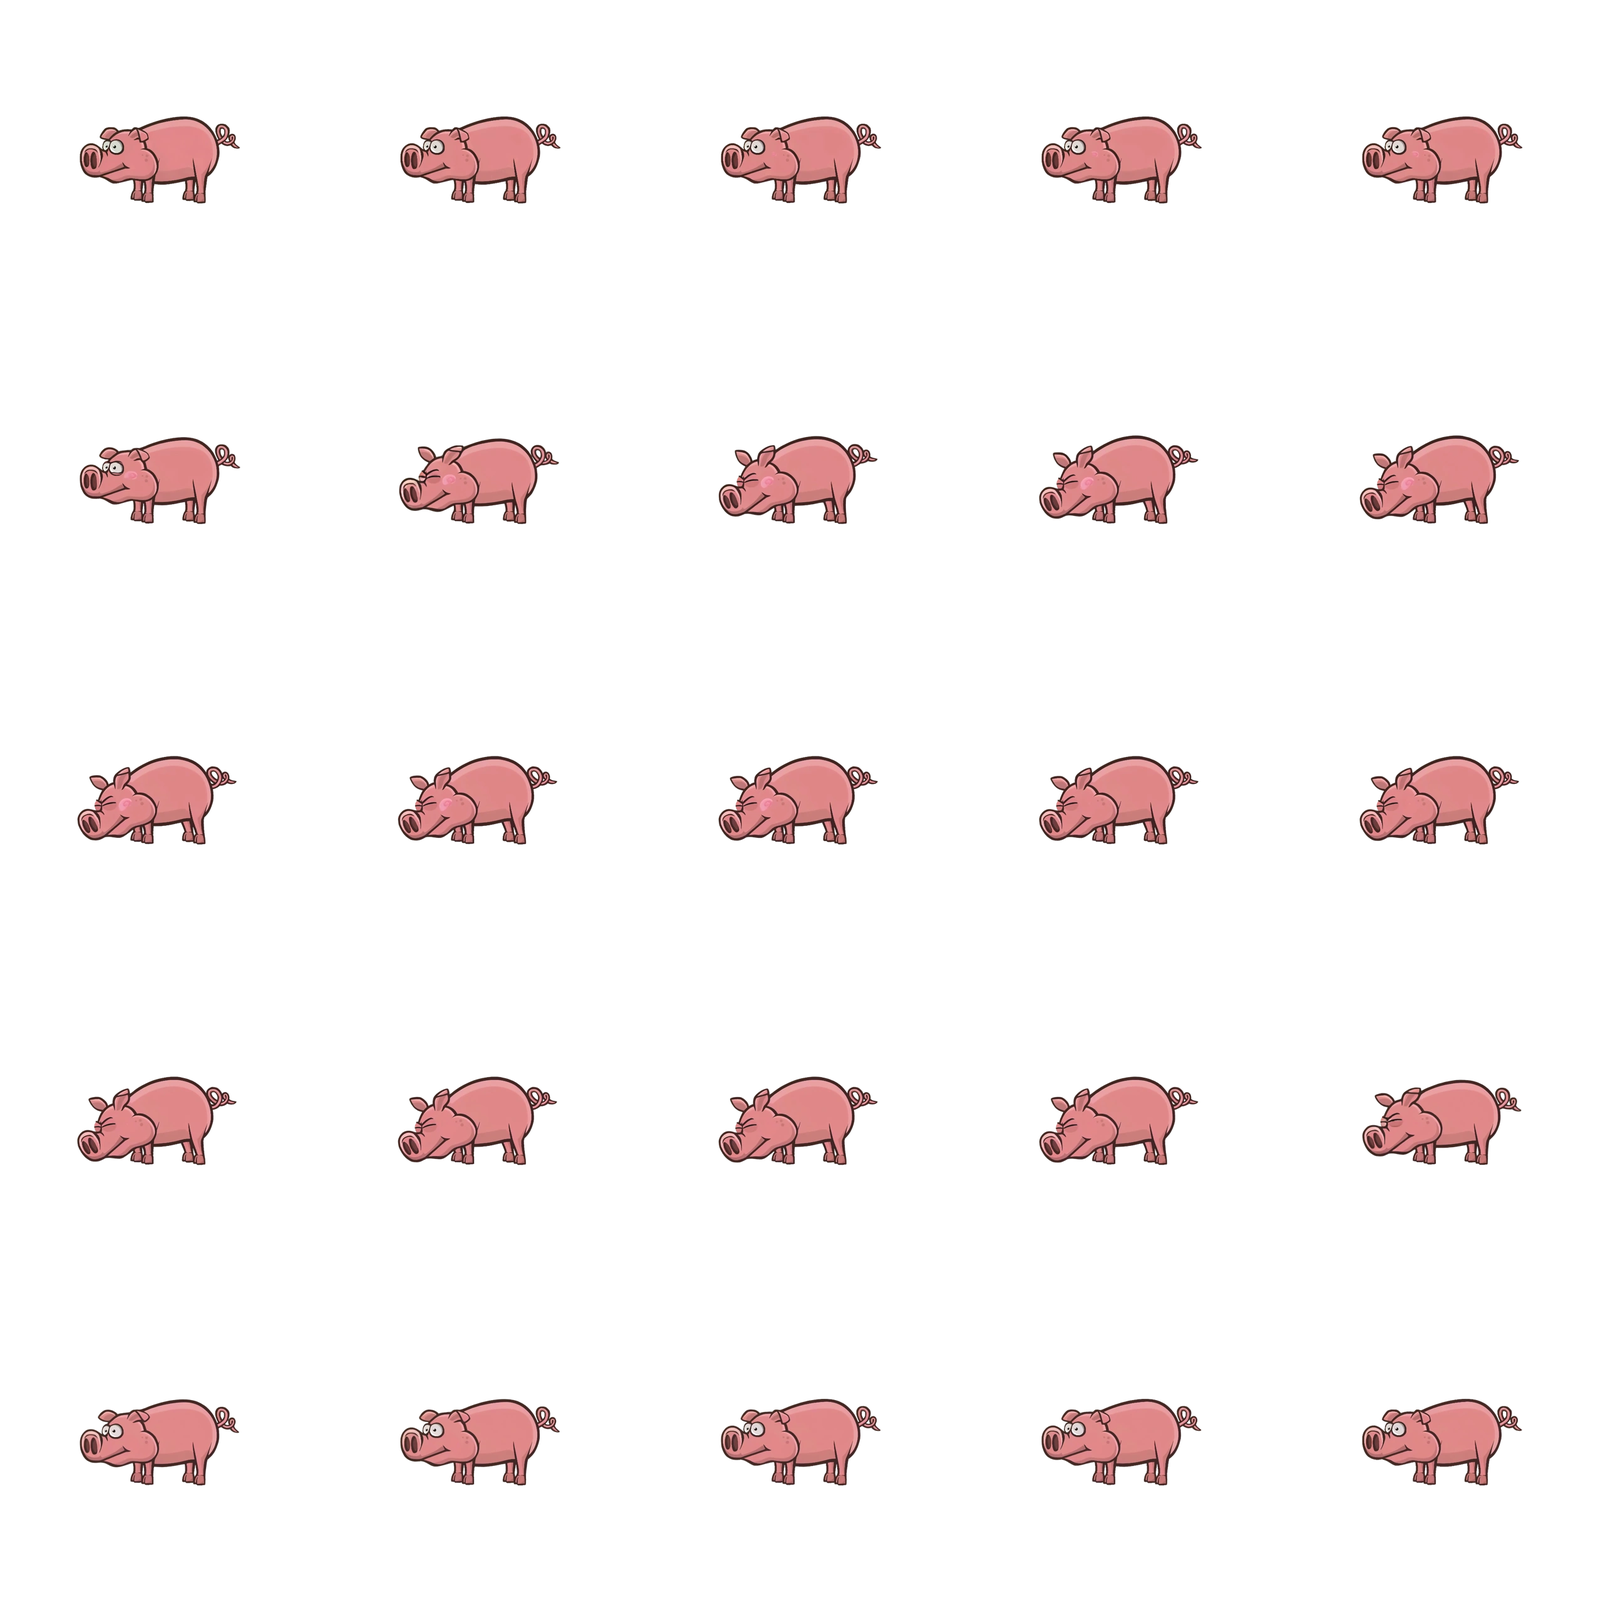
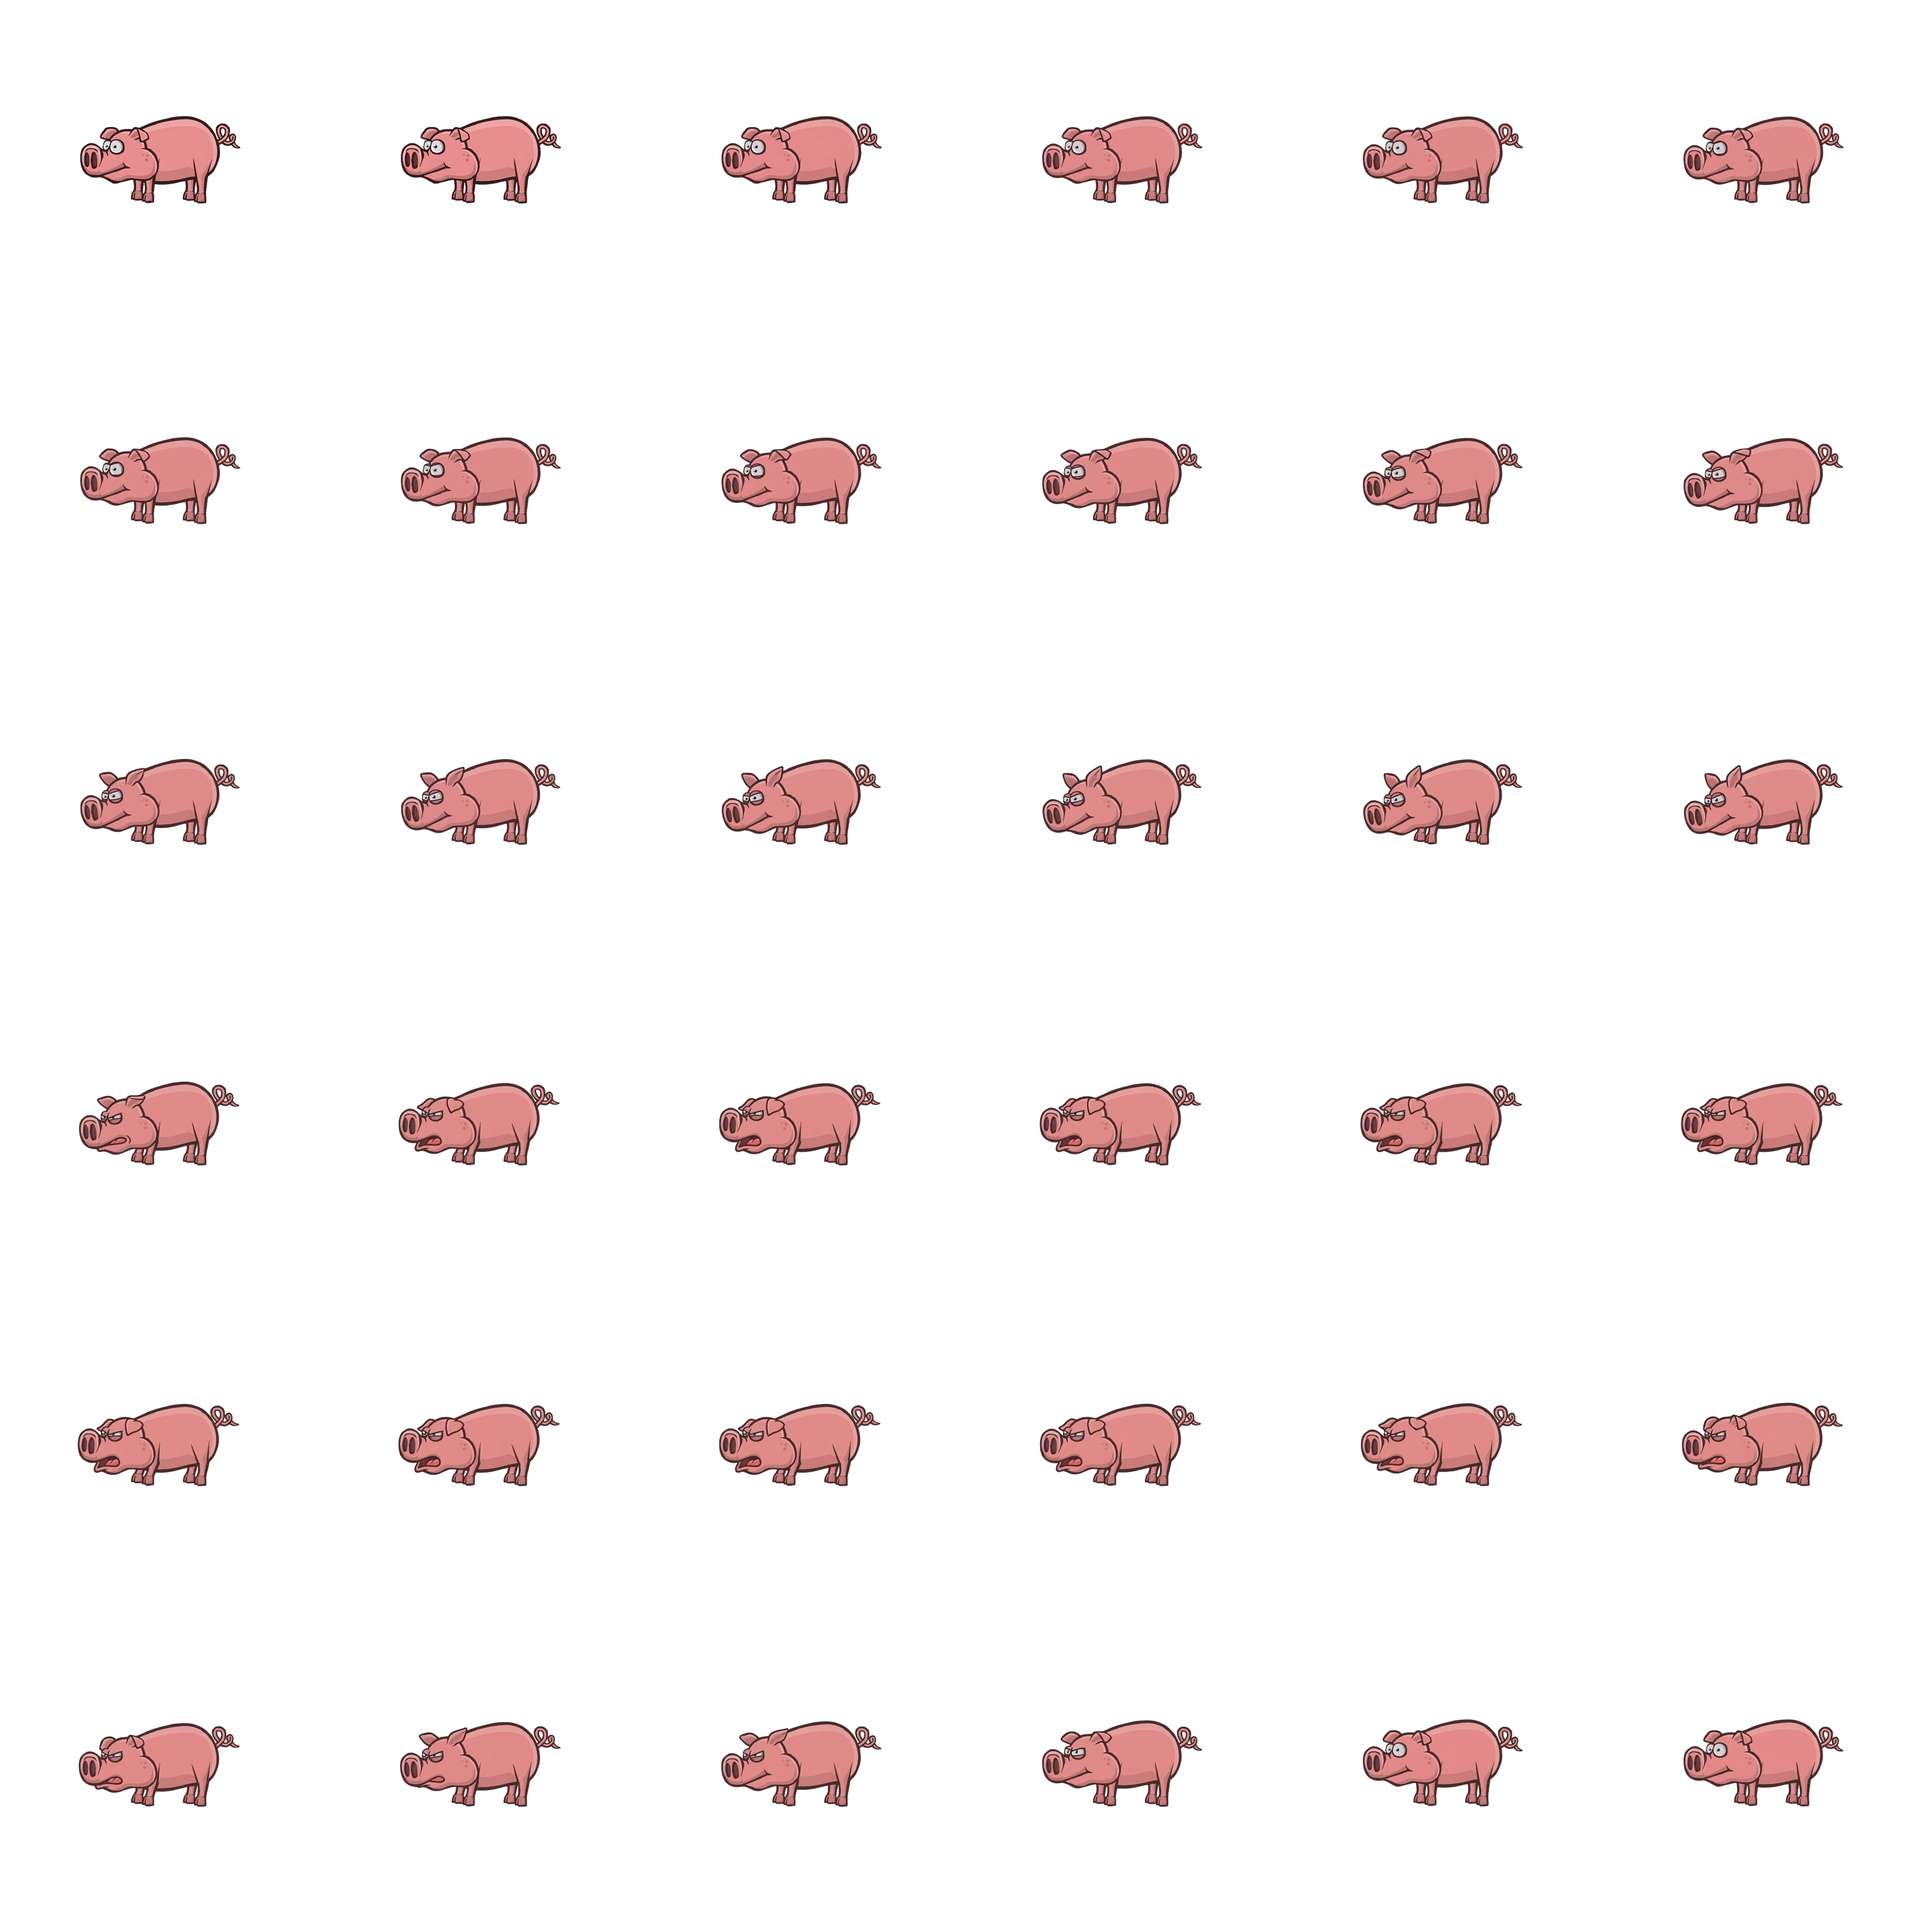
Regenerate four flagged emotion clips on Hydra
From the audit of every shipped clip:
- brown-bull thinking: the dark eye blob in frames 9-13 is gone.
- cow sneaky: the stray red mark under the chin is gone.
- pig angry: a real scowl instead of a subdued head-down huff.
- skunk angry: stays in its crouch (height swing 7%, was 23%).

The review notes that described the old defects are removed.

diff --git a/src/phaser/animals/emotionSheets.generated.ts b/src/phaser/animals/emotionSheets.generated.ts
@@ -91,20 +91,17 @@ export const EMOTION_SHEETS: Partial<
       file: 'brown-bull-thinking.png',
       frameWidth: 512,
       frameHeight: 512,
-      frameCount: 25,
-      frameRate: 13,
-      scale: 3.3695,
-      originX: 0.4999,
+      frameCount: 36,
+      frameRate: 12,
+      scale: 3.2264,
+      originX: 0.5076,
       originY: 0.6973,
       quality: {
-        loopPop: 0.19,
-        heightSwing: 1,
-        driftX: 1.5,
+        loopPop: 0.16,
+        heightSwing: 4.7,
+        driftX: 4,
         warnings: [],
       },
-      reviewNotes: [
-        'Accepted on human review with a known defect: frames 9-13 draw the eye as a solid dark blob, which reads as a brief black eye patch at stage scale. Clean loop otherwise.',
-      ],
     },
   },
   'brown-wolf': {
@@ -245,20 +242,17 @@ export const EMOTION_SHEETS: Partial<
       file: 'cow-sneaky.png',
       frameWidth: 512,
       frameHeight: 512,
-      frameCount: 25,
-      frameRate: 13,
-      scale: 1.6784,
-      originX: 0.498,
-      originY: 0.7012,
+      frameCount: 36,
+      frameRate: 12,
+      scale: 1.8406,
+      originX: 0.4703,
+      originY: 0.6992,
       quality: {
-        loopPop: 0.32,
-        heightSwing: 10.6,
-        driftX: 7.8,
+        loopPop: 0.36,
+        heightSwing: 9.2,
+        driftX: 5.5,
         warnings: [],
       },
-      reviewNotes: [
-        'One frame (of 25) shows a brief stray red mark on the fur under the chin, not present in neighboring frames — small and easy to miss, but worth a second look on loop.',
-      ],
     },
     talking: {
       file: 'cow-talking.png',
@@ -733,20 +727,17 @@ export const EMOTION_SHEETS: Partial<
       file: 'pig-angry.png',
       frameWidth: 512,
       frameHeight: 512,
-      frameCount: 25,
-      frameRate: 13,
-      scale: 1.5986,
-      originX: 0.4939,
+      frameCount: 36,
+      frameRate: 12,
+      scale: 1.6214,
+      originX: 0.4949,
       originY: 0.6348,
       quality: {
-        loopPop: 0.23,
-        heightSwing: 3.5,
-        driftX: 2.5,
+        loopPop: 0.31,
+        heightSwing: 5.7,
+        driftX: 1.5,
         warnings: [],
       },
-      reviewNotes: [
-        'Approved with a check label: expression reads as a subdued head-down huff rather than strong anger, despite passing quality metrics.',
-      ],
     },
     doubtful: {
       file: 'pig-doubtful.png',
@@ -966,18 +957,16 @@ export const EMOTION_SHEETS: Partial<
       file: 'skunk-angry.png',
       frameWidth: 512,
       frameHeight: 512,
-      frameCount: 25,
-      frameRate: 13,
-      scale: 2.1066,
-      originX: 0.5248,
-      originY: 0.5918,
+      frameCount: 36,
+      frameRate: 12,
+      scale: 2.5446,
+      originX: 0.5175,
+      originY: 0.5938,
       quality: {
-        loopPop: 0.15,
-        heightSwing: 23,
-        driftX: 3.5,
-        warnings: [
-          'height swing 23% (over 20%) — check it is motion, not the character changing pose',
-        ],
+        loopPop: 0.12,
+        heightSwing: 7,
+        driftX: 0.8,
+        warnings: [],
       },
     },
     doubtful: {
